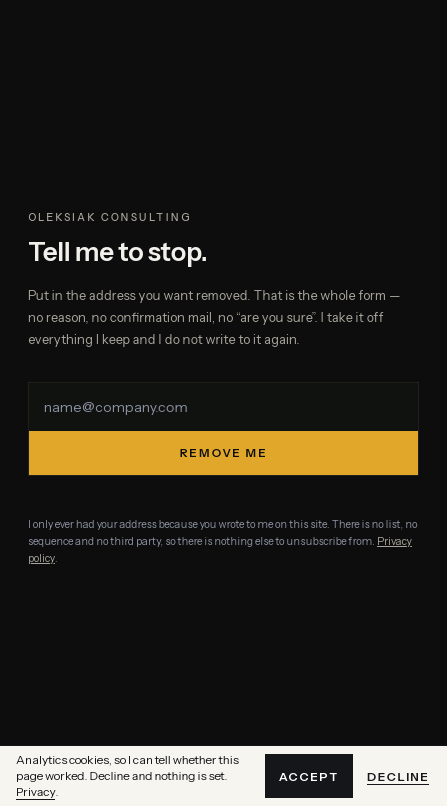
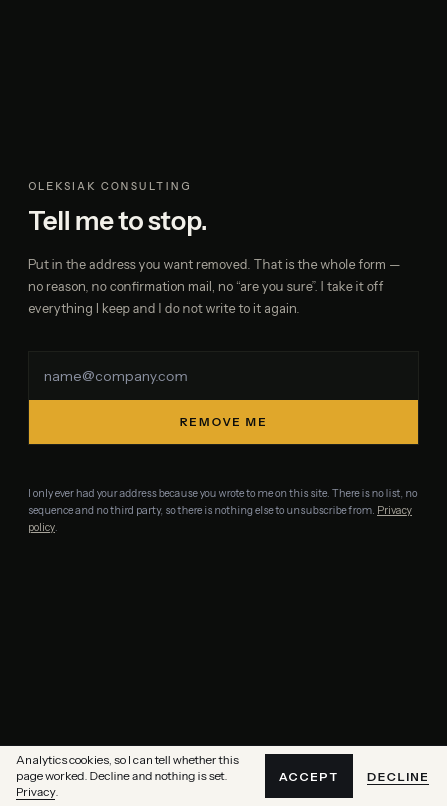
R6' p11: /stop bez skoku przy pasku cookies (clsscroll-390 0,019 -> 0; kolumna bez --consent-h, scroll-padding-bottom, preload Instrument Sans), reduced-motion /stop zawezony do .stopwrap; bramki css-leak-static (martwe arkusze raportowane) i font-preload z kontrolami pozytywnymi; scripts/serve.sh; 

Changed region(s): [[0.0582, 0.4653, 0.9597, 0.7134], [0.0582, 0.2171, 0.8725, 0.4342]]

diff --git a/app/stop/stop.css b/app/stop/stop.css
@@ -14,7 +14,12 @@ body:has(.stopwrap){overflow-x:visible;max-width:none;
    wyswietlaniowy; samo `inherit` daloby naglowek pisany monospacem. */
 :where(.stopwrap) :is(h1,h2,h3,h4,h5,h6){font-family:var(--disp);} /* R40: tylko na /stop */
 
-.stopwrap{min-height:calc(100dvh - var(--consent-h, 0px));
+/* R42: wysokosc kolumny NIE zalezy od --consent-h. Wczesniej min-height = ekran minus pasek cookies, a tresc
+   wysrodkowana; pasek pojawia sie ~1,7 s po wczytaniu, kolumna skracala sie i tresc podskakiwala o ~39 px
+   (clsscroll-390 0,019). Teraz tresc stoi w miejscu; rezerwe pod paskiem daje padding <html> z CookieConsent
+   (da sie dojechac do kazdej kontrolki), a fokus z klawiatury trzyma scroll-padding-bottom nizej. */
+html:has(.stopwrap){scroll-padding-bottom:calc(var(--consent-h,0px) + 24px);}
+.stopwrap{min-height:100dvh;
   display:flex;flex-direction:column;justify-content:center;
   max-width:620px;margin:0 auto;padding:80px 28px 48px;}
 .stopwrap .lab{font-family:var(--mono);font-size:10.5px;font-weight:500;letter-spacing:.2em;
@@ -46,4 +51,4 @@ body:has(.stopwrap){overflow-x:visible;max-width:none;
 @media (max-width:560px){
   .stopbox{flex-direction:column;} .stopbox button{padding:15px 0;}
 }
-@media (prefers-reduced-motion:reduce){ *{transition:none!important;} }
+@media (prefers-reduced-motion:reduce){ .stopwrap *{transition:none!important;} } /* R42: tylko na /stop (bylo `*` — wylaczalo przejscia na kazdej trasie po wizycie na /stop) */

diff --git a/app/stop/page.tsx b/app/stop/page.tsx
@@ -1,4 +1,5 @@
 import type { Metadata, Viewport } from 'next'
+import { preload } from 'react-dom'
 import StopClient from './StopClient'
 import './stop.css'
 
@@ -18,6 +19,9 @@ export const viewport: Viewport = {
 }
 
 export default function Stop() {
+  // R42: /stop rysuje wszystko krojem Instrument Sans (--sans/--mono/--disp w globals.css). Preload tego jednego
+  // pliku skraca okno podmiany kroju; skok przy pojawieniu sie paska cookies usunelo stop.css (min-height bez --consent-h).
+  preload('/fonts/instrument-sans-400-600-latin.woff2', { as: 'font', type: 'font/woff2', crossOrigin: 'anonymous' })
   return (
     <main className="stopwrap">
       <div className="lab">Oleksiak Consulting</div>

diff --git a/agencja/wiedza/kolejka.md b/agencja/wiedza/kolejka.md
@@ -31,4 +31,6 @@ Każda porcja: źródło (link + data) → jedna konkretna zmiana na stronie alb
 - ~~Zdarzenia przewijania — wsparcie `scrollend` w Safari~~ (25.11 R6' p6: web-features explorer + InfoQ 04.2026 → `scrollend` tylko jako ulepszenie, reguła R34.4)
 - ~~Elementy przyklejone a przypięte sceny — NN/g „Sticky Headers: 5 Ways to Make Them Better” (https://www.nngroup.com/articles/sticky-headers/) + W3C F110 (https://www.w3.org/WAI/WCAG21/Techniques/failures/F110)~~ (25.11 R6' p7: przyklejony nagłówek nie może zasłaniać treści, którą użytkownik właśnie czyta → pasek rozdziałów ustępuje w przypiętym kokpicie; reguła R36.2: każdy element `position:fixed` × każda przypięta scena = test nakładania w bramce). Zostaje: ten sam test dla `/work/genactiv` (ActBar a scena) i dla `/` (nagłówek a sekcje przypięte).
 
-19. ~~Wydajność/architektura — Next.js „CSS: Ordering and Merging”~~ (27.11 R6' p10: arkusze tras zawężone `:has()`, bramka `css-leak`). Zostaje: statyczna wersja bramki (bez przeglądarki) i przejście na CSS Modules przy następnej zmianie arkuszy tras.
+19. ~~Wydajność/architektura — Next.js „CSS: Ordering and Merging”~~ (27.11 R6' p10: arkusze tras zawężone `:has()`, bramka `css-leak`). ~~Statyczna wersja bramki~~ (27.11 R6' p11: `css-leak-static`). Zostaje: przejście na CSS Modules przy następnej zmianie arkuszy tras.
+
+20. ~~Wydajność — preload fontów (web.dev „Best practices for fonts”)~~ (27.11 R6' p11: bramka `font-preload`). Zostaje: `size-adjust`/`ascent-override` dla krojów zapasowych (mniejszy skok przy podmianie) — web.dev „CSS size-adjust for @font-face”.

diff --git a/agencja/postep-uczenia.md b/agencja/postep-uczenia.md
@@ -78,3 +78,5 @@ Jedna linia na przebieg: data · czego się nauczyliśmy (źródło) · co konkr
 - 26.11 12:30 · Retro: hipoteza z kolejki („pasek cookies”) była błędna, przyczynę dał pomiar (R39.1); brak resetu na drugiej trasie złapany testem na klasę, nie oczami (R39.2); reguła CSS bez efektu złapana przez recenzenta (R39.4).
 - 27.11 11:20 (R6' p10) · Next.js docs „CSS — Ordering and Merging” (https://nextjs.org/docs/app/getting-started/css): arkusze nie są zdejmowane przy nawigacji klienckiej · Zmiana: wszystkie arkusze tras zawężone przez `:has()`, `ship-tool.mjs` zawęża generowany `tool.css`, bramka `css-leak` w `gates.sh` (stary build 5 FAIL → nowy 0).
 - 27.11 11:20 · Retro: wznowienie porzuconego przebiegu z `wip/` zadziałało, ale wypchnięte przed bramkami (R41.1); sondy w trakcie bramek dały fałszywy FAIL wydajności (R41.2); W3C C43 drugi raz (`/tool`) — wzorzec naprawy na klasę błędu.
+- 27.11 12:15 (R6' p11) · web.dev „Best practices for fonts” (https://web.dev/articles/font-best-practices): preload tylko krojów krytycznych, faktycznie użytych na stronie · Zmiana: `/stop` preloaduje jedyny rysowany krój (Instrument Sans) zamiast dwóch nieużywanych; nowa stała bramka `font-preload` w `gates.sh` (HTML serwera vs kroje rysowane, 390/1440, kontrola pozytywna) — 7 tras, 20 preloadów, 0 FAIL.
+- 27.11 12:15 · Retro: lekcja R17 (stary serwer) wróciła, bo żyła tylko w `gates.sh` — zamieniona w polecenie `scripts/serve.sh` (R42.1); błąd fontu złapany przez recenzenta → test `font-preload` (R42.2); statyczna `css-leak` odróżnia arkusze martwe od żywych (R42.4).

diff --git a/agencja/specs/45-r6q11-stop-cls-bramki.md b/agencja/specs/45-r6q11-stop-cls-bramki.md
@@ -1,0 +1,14 @@
+# Spec 45 — R6' p11: /stop bez skoku przy pasku cookies, statyczna css-leak, font-preload, serve.sh (27.11.2026 11:38)
+
+Kolejka: R6'-N10 pkt 0 i pkt 4. Pliki: `app/stop/stop.css`, `app/stop/page.tsx`, `scripts/css-leak-static.mjs` (nowy),
+`scripts/font-preload-check.mjs` (nowy), `scripts/serve.sh` (nowy), `scripts/gates.sh`. Tekstów widocznych dla odwiedzającego nie zmieniamy.
+
+## Kryteria
+1. `/stop` clsscroll 390 i 1440 ≤ 0,001 (było 0,019 na 390): kolumna nie skraca się o `--consent-h`; fokus nad paskiem (`scroll-padding-bottom`).
+2. Żadna kontrolka `/stop` (pole, „Remove me”, link do polityki) pod paskiem cookies przy pierwszym widoku na 390×844, 375×667, 1440×900.
+3. `prefers-reduced-motion` na `/stop` nie wyłącza przejść na innych trasach po nawigacji klienckiej (`.stopwrap *`, nie `*`).
+4. `css-leak-static`: samotest (złe i dobre wzorce, zbiór globalny, zbiór importowany) PASS; prawdziwe pliki PASS; arkusz, którego nikt
+   nie importuje (`app/audit.css`), raportowany jako MARTWY i nie liczy się do FAIL; kontrola pozytywna na starym `stop.css` = FAIL.
+5. `font-preload`: każdy preload fontu w HTML trasy to krój, który trasa rysuje (390 i 1440); kontrola pozytywna (wstrzyknięty preload) = FAIL.
+6. `serve.sh`: restart serwera z kodem 0 tylko, gdy serwer podaje bieżący `.next/BUILD_ID`.
+7. `gates.sh /stop /privacy` PASS (w tym WebKit 390/1440), tsc 0, lint bez nowych ostrzeżeń (1 → 1).

diff --git a/agencja/recenzje/52-r6q11-review.md b/agencja/recenzje/52-r6q11-review.md
@@ -1,0 +1,13 @@
+# Recenzja 52 — R6' p11 (niezależny subagent, 27.11.2026 ~11:58)
+
+Werdykt pierwszej wersji: a) kontrola BUILD_ID PASS (id w HTML 7 tras i w 404; bez `-L` przekierowanie dałoby fałszywą odmowę),
+b) logika „martwy arkusz” PASS (tylko `app/audit.css`; luki teoretyczne: `require('./x.css')`, import CSS spoza `app/`),
+c) **FAIL**: preload DM Sans 400 + Poppins 700 na `/stop` nieużywany — `/stop` rysuje wszystko Instrument Sans (`--sans/--mono/--disp`
+w `globals.css`), ~22 KB pobierane na darmo, a skok nie zależał od preloadu (blokada obu fontów: CLS bez zmian); reszta c) czysta:
+kontrolki ≥ 52 px nad paskiem na 390×844/375×667/1440×900, kolejność Tab bez zasłonięć, pole nie przesuwa się przy pojawieniu paska,
+ruch ograniczony zachowany; d) teksty bez zmian PASS; e) zakres PASS.
+
+Poprawki po recenzji: preload zamieniony na `instrument-sans-400-600-latin.woff2` (pomiar: jedyny pobierany font), komentarz R42 poprawiony;
+duplikat kontroli BUILD_ID usunięty (taka kontrola już była w `gates.sh` od R17 — patrz lekcja R42.1), zamiast niej `scripts/serve.sh`;
+nowa bramka `font-preload` zamienia ten błąd w test (kontrola pozytywna PASS; na 7 trasach 20 preloadów, 0 FAIL).
+Ponowna bramka po poprawkach: `gates.sh /stop /privacy` WYNIK PASS, clsscroll /stop 0,00000 na 390 i 1440.
